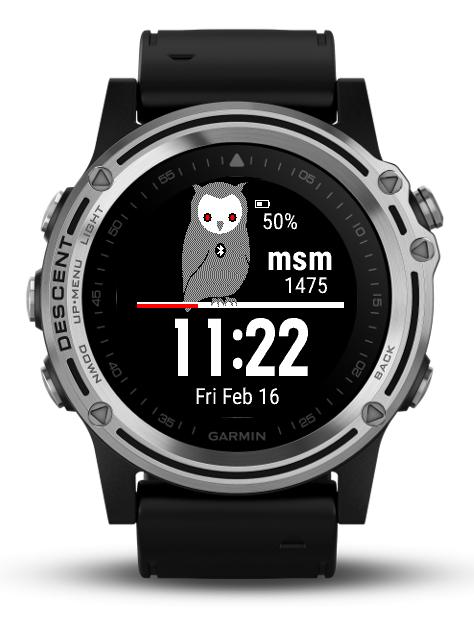
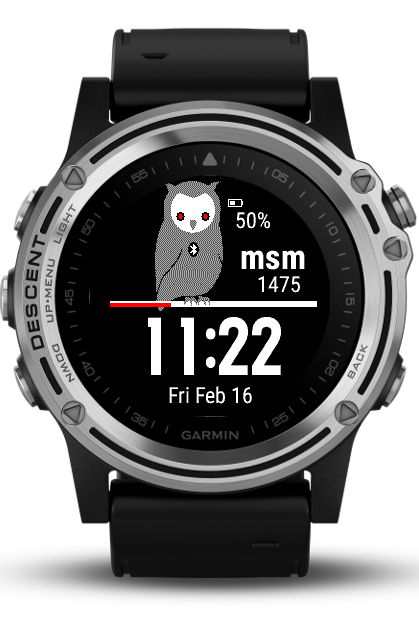
Updating info. Fixing edges for mk1 images

Changed region(s): [[0.0, 0.0303, 0.9928, 0.9379], [0.7757, 0.8774, 0.9618, 0.9379], [0.1241, 0.9076, 0.2172, 0.9379]]

diff --git a/README.md b/README.md
@@ -109,6 +109,9 @@ The application may be downloaded from the Garmin store.
 * [D2 Bravo](#d2-bravo)
 * [D2 Bravo Charlie](#d2-bravo-charlie)
 * [D2 Bravo Titanium](#d2-bravo-titanium)
+* [Descent Mk1](#descent-mk1)
+* [Forerunner 645](#forerunner-645)
+* [Forerunner 645 Music](#forerunner-645-music)
 
 ## Screenshots
 ### Vivoactive HR
